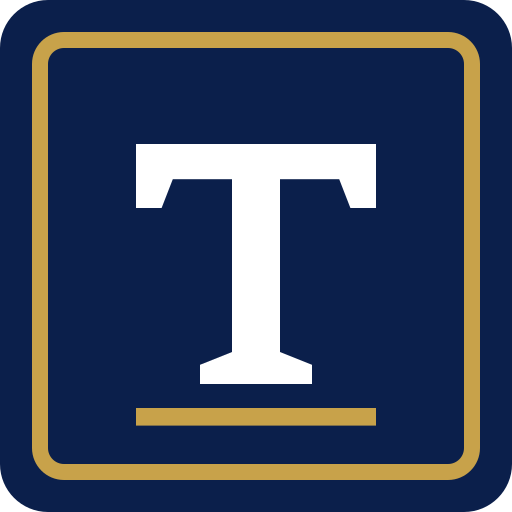
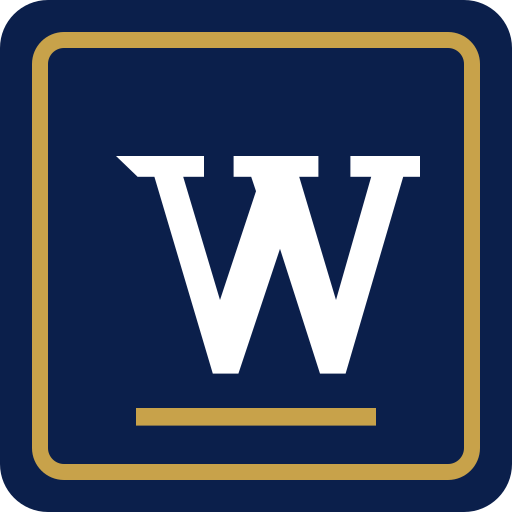
Rename to World Net News
- APP_NAME "World Net News", APP_SHORT "World Net" (phone masthead,
  home-screen label, "on World Net" credibility lines)
- New serif "W" stamp; regenerated app icons, favicon and splash screens
- Wordmark sized to fit one line from tablet to desktop
- Manifest, offline page, docs, schema comment and package name updated
- Seeded logins now @worldnet.test / worldnet-* passwords
- Visual baselines refreshed

Claude-Session: https://claude.ai/code/session_01ULcSdPE9nj6tEecmQ7VarX

Changed region(s): [[0.2188, 0.2812, 0.8438, 0.75]]

diff --git a/townsquare/scripts/seed.ts b/townsquare/scripts/seed.ts
@@ -32,7 +32,7 @@ if (get<{ n: number }>("SELECT count(*) n FROM users")!.n > 0) {
 
 // ---------------------------------------------------------------- people
 const PEOPLE: [string, string, string, boolean][] = [
-  ["admin", "Townsquare Desk", "Official account. Standards, corrections, and product notes.", true],
+  ["admin", "World Net Desk", "Official account. Standards, corrections, and product notes.", true],
   ["demo", "Demo Reader", "Just here to read the front page.", false],
   ["maria_lopez", "Maria Lopez", "Capitol Hill correspondent. Votes, whips, and the fine print.", true],
   ["jwashington", "James Washington", "Retired civics teacher. I read the Constitution for fun.", false],
@@ -340,7 +340,7 @@ async function makeImage(ownerId: string, i: number): Promise<string> {
 
 async function main() {
   console.log("Seeding the national edition…");
-  const [adminPw, demoPw, otherPw] = await Promise.all([hashPassword("townsquare-admin"), hashPassword("townsquare-demo"), hashPassword("townsquare-user")]);
+  const [adminPw, demoPw, otherPw] = await Promise.all([hashPassword("worldnet-admin"), hashPassword("worldnet-demo"), hashPassword("worldnet-user")]);
   const users = PEOPLE.map(([handle, name, bio, verified], i) => ({ id: newId() + i, handle, name, bio, verified, created: NOW - int(60, 1400) * 24 * HOUR }));
   const by = new Map(users.map((u) => [u.handle, u]));
   const voices = users.slice(2);
@@ -350,7 +350,7 @@ async function main() {
     for (const u of users) {
       run(
         `INSERT INTO users (id, email, password_hash, handle, display_name, bio, links, role, verified, onboarded, created_at) VALUES (?, ?, ?, ?, ?, ?, ?, ?, ?, 1, ?)`,
-        [u.id, `${u.handle.replace(/\W/g, "")}@townsquare.test`, u.handle === "admin" ? adminPw : u.handle === "demo" ? demoPw : otherPw, u.handle, u.name, u.bio,
+        [u.id, `${u.handle.replace(/\W/g, "")}@worldnet.test`, u.handle === "admin" ? adminPw : u.handle === "demo" ? demoPw : otherPw, u.handle, u.name, u.bio,
           u.handle === "maria_lopez" ? JSON.stringify([{ label: "Portfolio", url: "https://example.com/maria" }]) : "[]", u.handle === "admin" ? "admin" : "user", u.verified ? 1 : 0, u.created],
       );
     }
@@ -528,7 +528,7 @@ async function main() {
 
   const counts = Object.fromEntries(["users", "stories", "story_updates", "posts", "stances", "communities", "news_items", "live_events"].map((t) => [t, get<{ n: number }>(`SELECT count(*) n FROM ${t}`)!.n]));
   console.log("Done:", counts);
-  console.log("\nLog in with:\n  admin@townsquare.test / townsquare-admin  (Control Room)\n  demo@townsquare.test  / townsquare-demo\n  any other seeded user: <handle>@townsquare.test / townsquare-user");
+  console.log("\nLog in with:\n  admin@worldnet.test / worldnet-admin  (Control Room)\n  demo@worldnet.test  / worldnet-demo\n  any other seeded user: <handle>@worldnet.test / worldnet-user");
 }
 
 main();

diff --git a/townsquare/src/components/ui/Logo.tsx b/townsquare/src/components/ui/Logo.tsx
@@ -1,8 +1,8 @@
 import Link from "next/link";
-import { APP_NAME } from "@/config";
+import { APP_NAME, APP_SHORT } from "@/config";
 
 /**
- * The Townsquare stamp: a navy square with a gold inset frame and a serif "T",
+ * The World Net News stamp: a navy square with a gold inset frame and a serif "W",
  * like a press seal. The wordmark is set in the display serif.
  */
 export function LogoMark({ size = 32, className = "" }: { size?: number; className?: string }) {
@@ -10,15 +10,15 @@ export function LogoMark({ size = 32, className = "" }: { size?: number; classNa
     <svg width={size} height={size} viewBox="0 0 64 64" aria-hidden="true" className={`shrink-0 ${className}`}>
       <rect width="64" height="64" rx="6" fill="#0b1f4b" />
       <rect x="5" y="5" width="54" height="54" rx="3" fill="none" stroke="#c8a24a" strokeWidth="2" />
-      <path d="M17 18h30v8h-3.2l-1.4-3.6H35V44l4 1.6V48H25v-2.4l4-1.6V22.4h-7.4L20.2 26H17z" fill="#ffffff" />
+      <path d="M14.5 19.5h11v2.6h-2.6l4.6 15.4 4.5-13.6-0.6-1.8h-2.2v-2.6h10.6v2.6h-2.4l4.6 15.4 4.4-15.4h-2.6v-2.6h8.7v2.6h-2.1l-7.2 24.6h-3.2l-5-15.6-5.2 15.6h-3.2l-7.3-24.6h-2.1z" fill="#ffffff" />
       <rect x="17" y="51" width="30" height="2.2" fill="#c8a24a" />
     </svg>
   );
 }
 
-export function Wordmark({ className = "", size = "md" }: { className?: string; size?: "sm" | "md" | "lg" }) {
-  const s = size === "lg" ? "text-[clamp(2.4rem,1.6rem+2.4vw,3.6rem)]" : size === "sm" ? "text-[1.35rem]" : "text-[1.6rem]";
-  return <span className={`font-display leading-none font-semibold tracking-[-0.03em] text-navy-ink ${s} ${className}`}>{APP_NAME}</span>;
+export function Wordmark({ className = "", size = "md", short }: { className?: string; size?: "sm" | "md" | "lg"; short?: boolean }) {
+  const s = size === "lg" ? "text-[clamp(2rem,0.6rem+2.6vw,3.3rem)]" : size === "sm" ? "text-[1.35rem]" : "text-[1.6rem]";
+  return <span className={`font-display leading-none font-semibold tracking-[-0.03em] whitespace-nowrap text-navy-ink ${s} ${className}`}>{short ? APP_SHORT : APP_NAME}</span>;
 }
 
 export function Logo({ compact, className = "", size = "md" }: { compact?: boolean; className?: string; size?: "sm" | "md" | "lg" }) {

diff --git a/townsquare/src/app/page.tsx b/townsquare/src/app/page.tsx
@@ -9,6 +9,7 @@ import { Deck, type DeckCardData } from "@/components/front/Deck";
 import { BriefingPromo, DebateTile, HotStories, LeadTile, LiveNowTile, MoreStories, PollTile, QuickTakes, StoryTile, VoicesTile, WireTile } from "@/components/front/Tiles";
 import { EmptyState } from "@/components/ui/States";
 import { Wordmark } from "@/components/ui/Logo";
+import { APP_NAME } from "@/config";
 import { MarketStrip } from "@/components/markets/LiveQuotes";
 import { getQuotes, marketMode } from "@/lib/markets/provider";
 import { marketStatus } from "@/lib/markets/clock";
@@ -67,7 +68,7 @@ export default async function FrontPage({ searchParams }: { searchParams: Promis
 
   return (
     <>
-      <h1 className="sr-only">{channel ? `${channel.label} — ` : ""}Townsquare Front Page</h1>
+      <h1 className="sr-only">{channel ? `${channel.label} — ` : ""}{APP_NAME} Front Page</h1>
       {/* Phone: story deck */}
       <div className="md:hidden">
         <Deck cards={cards} channels={FRONT_CHANNELS.map((x) => ({ href: x.href, label: x.label }))} channelIndex={Math.max(0, FRONT_CHANNELS.findIndex((x) => x.key === (channel?.key ?? "front")))} />
@@ -111,7 +112,7 @@ export default async function FrontPage({ searchParams }: { searchParams: Promis
           )}
         </div>
         <footer className="mt-16 flex flex-wrap items-end justify-between gap-6 border-t-[3px] border-navy-ink pt-5 pb-4 text-[12.5px] text-ink-3">
-          <div><Wordmark size="sm" /><p className="mt-1">Built by Gleyde Technologies, LLC. Townsquare is a working name. Sample stories and outlets are fictional.</p></div>
+          <div><Wordmark size="sm" /><p className="mt-1">Built by Gleyde Technologies, LLC. Sample stories and outlets are fictional.</p></div>
           <nav className="flex gap-5">
             <Link href="/legal/terms" className="hover:text-ink-1">Terms</Link>
             <Link href="/legal/privacy" className="hover:text-ink-1">Privacy</Link>

diff --git a/townsquare/src/components/shell/Masthead.tsx b/townsquare/src/components/shell/Masthead.tsx
@@ -6,6 +6,7 @@ import { useEffect, useState } from "react";
 import { logoutAction } from "@/actions/auth";
 import { Avatar } from "../ui/Avatar";
 import { LogoMark, Wordmark } from "../ui/Logo";
+import { APP_NAME } from "@/config";
 import { Menu } from "../ui/Menu";
 import { EditionIcon, InboxIcon, KeyboardIcon, LogoutIcon, MonitorIcon, MoonIcon, RundownIcon, SearchIcon, SettingsIcon, ShieldIcon, SunIcon, TakeIcon, UserIcon } from "../icons";
 import { useComposer, usePalette, useRundown, useShortcutsHelp, useViewer } from "../providers";
@@ -74,9 +75,9 @@ export function Masthead({ unread }: { unread: number }) {
       <div className="relative mx-auto grid h-[var(--header-h)] max-w-[1320px] grid-cols-[auto_1fr_auto] items-center gap-2 px-3 lg:h-[92px] lg:grid-cols-[1fr_auto_1fr] lg:px-8">
         {/* left */}
         <div className="flex items-center gap-1">
-          <Link href="/" aria-label="Townsquare front page" className="flex items-center gap-2 lg:hidden">
+          <Link href="/" aria-label={`${APP_NAME} front page`} className="flex items-center gap-2 lg:hidden">
             <LogoMark size={28} />
-            <Wordmark size="sm" />
+            <Wordmark size="sm" short />
           </Link>
           <div className="hidden items-center gap-1 lg:flex">
             {viewer && (
@@ -90,7 +91,7 @@ export function Masthead({ unread }: { unread: number }) {
           </div>
         </div>
         {/* center wordmark (desktop) */}
-        <Link href="/" aria-label="Townsquare front page" className="hidden flex-col items-center lg:flex">
+        <Link href="/" aria-label={`${APP_NAME} front page`} className="hidden flex-col items-center lg:flex">
           <span className="flex items-center gap-3">
             <LogoMark size={44} />
             <Wordmark size="lg" />

diff --git a/townsquare/src/lib/takes.ts b/townsquare/src/lib/takes.ts
@@ -1,3 +1,4 @@
+import { APP_SHORT } from "@/config";
 import { all, get, now } from "./db";
 import { hiddenAuthorsSql, hiddenParams, hydrate, type PostView } from "./posts";
 import { toMini, type UserMini } from "./users";
@@ -83,11 +84,11 @@ export function voices(viewerId: string | null, limit = 4, section?: string): Vo
   }));
 }
 
-/** One-line credibility note for a Voice ("Verified · 2 yrs on Townsquare · 14 context notes"). */
+/** One-line credibility note for a Voice ("Verified · 2 yrs on World Net · 14 context notes"). */
 export function credibility(v: { verified: boolean; joinedAt: number; contextNotes: number; takes: number }) {
   const years = (now() - v.joinedAt) / (365 * 86_400_000);
   const age = years >= 1 ? `${Math.floor(years)} yr${years >= 2 ? "s" : ""}` : `${Math.max(1, Math.round(years * 12))} mo`;
-  return [v.verified ? "Verified" : null, `${age} on Townsquare`, v.contextNotes ? `${v.contextNotes} context note${v.contextNotes === 1 ? "" : "s"}` : `${v.takes} takes`]
+  return [v.verified ? "Verified" : null, `${age} on ${APP_SHORT}`, v.contextNotes ? `${v.contextNotes} context note${v.contextNotes === 1 ? "" : "s"}` : `${v.takes} takes`]
     .filter(Boolean)
     .join(" · ");
 }

diff --git a/townsquare/src/app/welcome/Onboarding.tsx b/townsquare/src/app/welcome/Onboarding.tsx
@@ -1,5 +1,6 @@
 "use client";
 
+import { APP_SHORT } from "@/config";
 import { useRouter } from "next/navigation";
 import { useState, useTransition } from "react";
 import type { UserListItem } from "@/lib/social";
@@ -77,7 +78,7 @@ export function Onboarding({ name, interests, initialInterests, initialTown, peo
       {step === 1 && (
         <section key="s1" className="animate-enter">
           <h1 className="font-display text-display font-semibold">Pick three Voices.</h1>
-          <p className="mt-2 text-[16px] text-ink-2">Their takes lead your Rundown. The gold line under each name is their record on Townsquare.</p>
+          <p className="mt-2 text-[16px] text-ink-2">Their takes lead your Rundown. The gold line under each name is their record on {APP_SHORT}.</p>
           <ul className="mt-6 divide-y divide-rule border-y-2 border-navy-ink">
             {people.map((u) => (
               <li key={u.id} className="flex items-center gap-3 p-3.5">

diff --git a/townsquare/src/app/design/page.tsx b/townsquare/src/app/design/page.tsx
@@ -1,3 +1,4 @@
+import { APP_SHORT } from "@/config";
 import { all } from "@/lib/db";
 import { liveEvents, listStories } from "@/lib/news";
 import { getPostView } from "@/lib/posts";
@@ -157,7 +158,7 @@ export default async function DesignPage() {
   const viewer = await getViewer();
   return (
     <Frame width="medium">
-      <PageTitle folio={<Kicker tone="gold">Townsquare UI</Kicker>} title="Design system" dek="Every component and state, in light and dark. Tokens live in src/styles/tokens.css." />
+      <PageTitle folio={<Kicker tone="gold">{APP_SHORT} UI</Kicker>} title="Design system" dek="Every component and state, in light and dark. Tokens live in src/styles/tokens.css." />
       <div className="light mt-6" style={{ ["--avatar-gap" as string]: "var(--paper)" }}>
         <h2 className="bg-paper px-4 pt-4 pb-2 font-display text-h1 font-semibold text-ink-1 sm:px-6">Light</h2>
         <Gallery viewerId={viewer?.id ?? null} />

diff --git a/townsquare/public/offline.html b/townsquare/public/offline.html
@@ -1,3 +1,3 @@
-<!doctype html><html lang="en"><head><meta charset="utf-8"><meta name="viewport" content="width=device-width,initial-scale=1"><title>Offline</title>
+<!doctype html><html lang="en"><head><meta charset="utf-8"><meta name="viewport" content="width=device-width,initial-scale=1"><title>Offline · World Net News</title>
 <style>body{font-family:system-ui,sans-serif;display:grid;place-items:center;min-height:100vh;margin:0;padding:16px;text-align:center;background:#fff;color:#0a1630;font-family:Georgia,serif}@media(prefers-color-scheme:dark){body{background:#070c18;color:#f4f6fb}}button{margin-top:16px;padding:12px 20px;border-radius:4px;border:0;border-bottom:2px solid #c8a24a;background:#0b1f4b;color:#fff;font-weight:700;font-size:16px}</style></head>
 <body><div><h1>The wire is down.</h1><p>You're offline. Saved Morning Editions still open.</p><button onclick="location.reload()">Retry</button></div></body></html>

diff --git a/townsquare/src/components/icons.tsx b/townsquare/src/components/icons.tsx
@@ -67,7 +67,7 @@ export const LayersIcon = (p: P) => <Svg {...p}><path d="m12 3 9 5-9 5-9-5z" /><
 export const FlameIcon = (p: P) => <Svg {...p}><path d="M12 22c4 0 7-2.8 7-7 0-4.5-3.5-6.5-4.5-10C11 7 9.5 9 9.5 11.5 8 10.8 7.4 9.6 7.3 8.5 5.8 10.2 5 12.3 5 15c0 4.2 3 7 7 7z" /></Svg>;
 export const ExpandIcon = (p: P) => <Svg {...p}><path d="M15 3h6v6M9 21H3v-6M21 3l-7 7M3 21l7-7" /></Svg>;
 
-/* ---- Townsquare-specific glyphs (no hearts, no retweet arrows) ---- */
+/* ---- World Net News glyphs (no hearts, no retweet arrows) ---- */
 /** Amplify: a broadcast mast with signal arcs. */
 export const AmplifyIcon = (p: P) => <Svg {...p}><path d="M12 13v8M9 21h6" /><circle cx="12" cy="11" r="2" /><path d="M8.5 7.5a5 5 0 0 0 0 7M15.5 7.5a5 5 0 0 1 0 7M5.6 4.6a9 9 0 0 0 0 12.8M18.4 4.6a9 9 0 0 1 0 12.8" /></Svg>;
 /** Answer: two facing brackets, a take and its reply side by side. */

diff --git a/townsquare/src/app/notifications/page.tsx b/townsquare/src/app/notifications/page.tsx
@@ -1,3 +1,4 @@
+import { APP_SHORT } from "@/config";
 import Link from "next/link";
 import { listNotifications, NOTIFICATION_FILTERS, type NotificationView } from "@/lib/notifications";
 import { requireViewerPage } from "@/lib/session";
@@ -63,7 +64,7 @@ function Row({ g }: { g: Group }) {
             </div>
           )}
           <p className="text-[15px] leading-snug">
-            {names ? <>{names} {VERB[g.type]}</> : <b>{g.type === "warning" ? "Standards desk" : "Townsquare"}</b>}
+            {names ? <>{names} {VERB[g.type]}</> : <b>{g.type === "warning" ? "Standards desk" : APP_SHORT}</b>}
             <span className="mono text-[11px] text-ink-3"> · <Time ms={n.createdAt} /></span>
           </p>
           {n.message && <p className="mt-1 text-[14.5px] text-ink-2">{n.message}</p>}

diff --git a/townsquare/src/app/u/[handle]/page.tsx b/townsquare/src/app/u/[handle]/page.tsx
@@ -1,3 +1,4 @@
+import { APP_SHORT } from "@/config";
 import type { Metadata } from "next";
 import Link from "next/link";
 import { notFound } from "next/navigation";
@@ -48,7 +49,7 @@ export default async function Byline({ params, searchParams }: { params: Promise
 
   const cred: [string, string][] = [
     ["Status", p.verified ? "Verified" : "Member"],
-    ["On Townsquare", age(p.joinedAt)],
+    [`On ${APP_SHORT}`, age(p.joinedAt)],
     ["Context notes", String(stats.ctx)],
     ["Takes", String(stats.takes)],
     ...(p.followers !== null ? ([["Followers", p.followers.toLocaleString("en-US")]] as [string, string][]) : []),

diff --git a/townsquare/tests/visual/pages.spec.ts b/townsquare/tests/visual/pages.spec.ts
@@ -10,8 +10,8 @@ const mask = (page: Page) => [
 
 async function login(page: Page) {
   await page.goto("/login");
-  await page.fill("#email", "admin@townsquare.test");
-  await page.fill("#password", "townsquare-admin");
+  await page.fill("#email", "admin@worldnet.test");
+  await page.fill("#password", "worldnet-admin");
   await page.click("button[type=submit]");
   await page.waitForURL((u) => !u.pathname.startsWith("/login"));
 }
